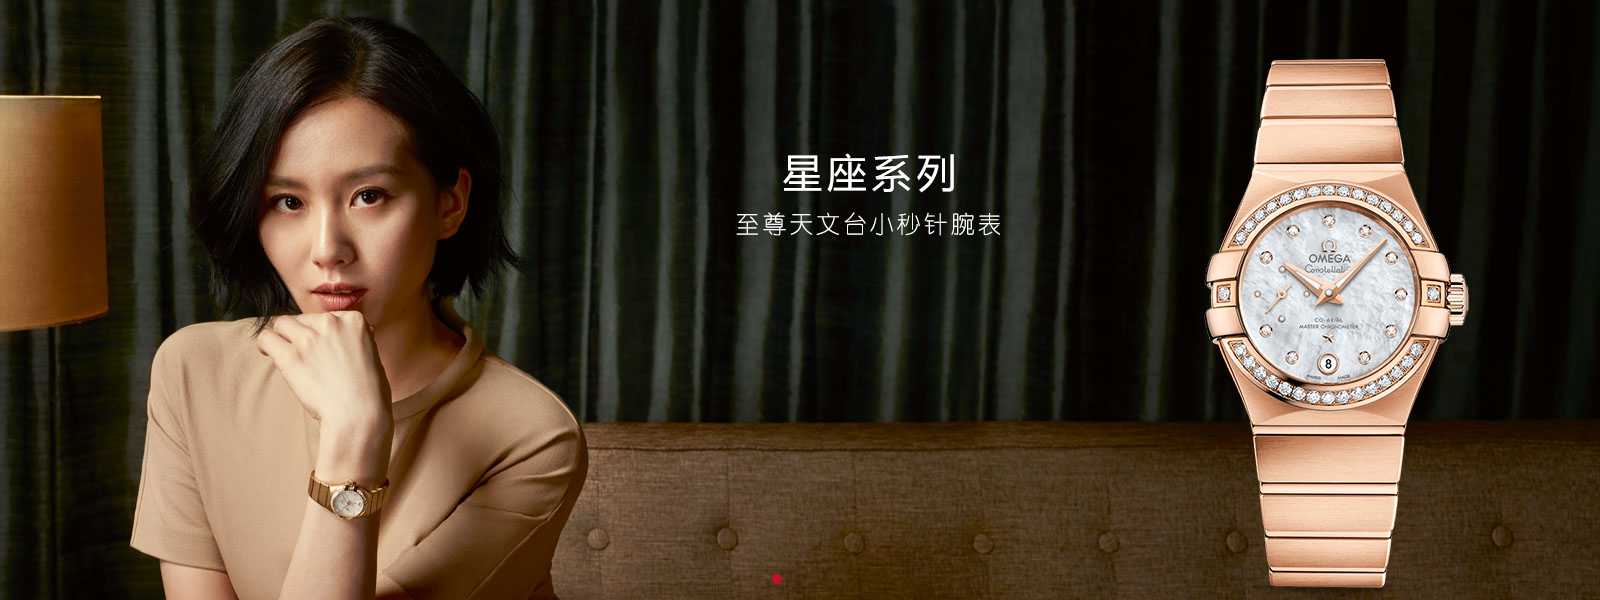
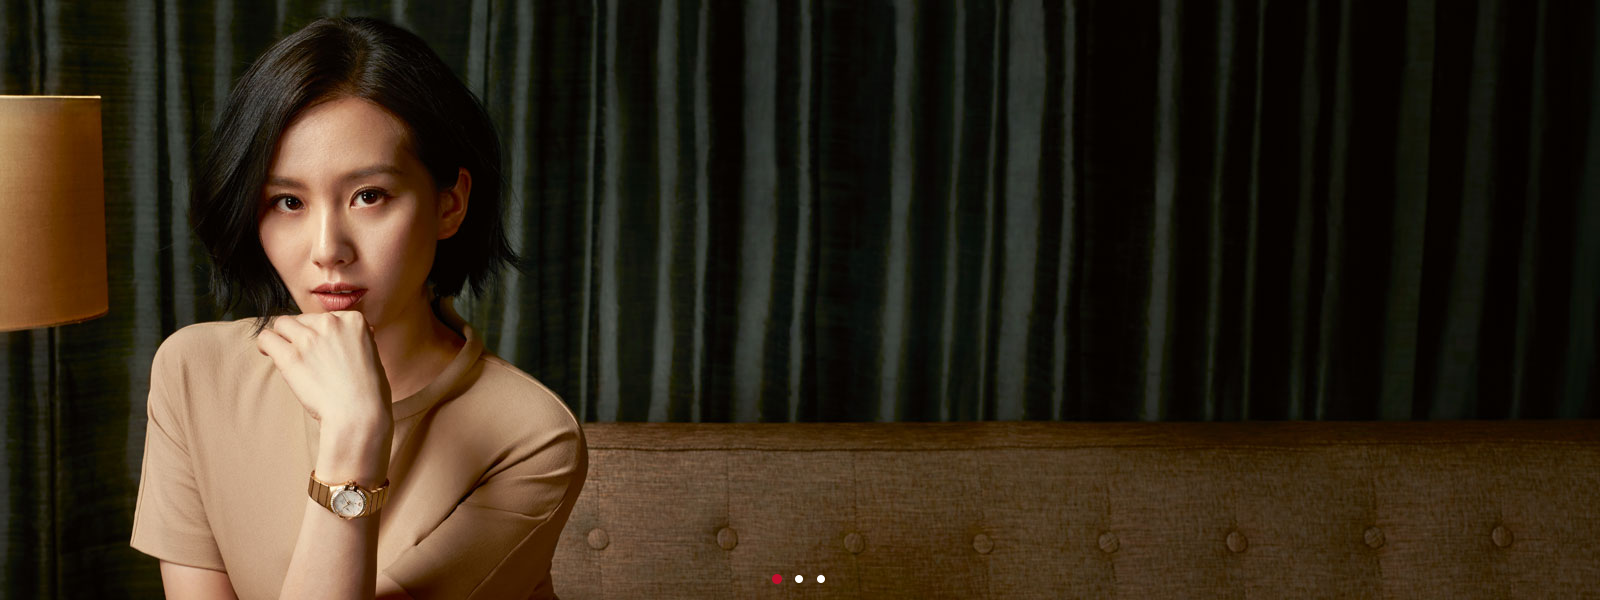
xx

Changed region(s): [[0.75, 0.09, 0.9375, 0.99], [0.4688, 0.24, 0.5938, 0.33], [0.4375, 0.36, 0.625, 0.39]]

diff --git a/index.html b/index.html
@@ -6,7 +6,7 @@
     <title>SW手表</title>
 
 </head>
-<style>
+<style type="text/css">
     .daohanglan {
         background: #ffffff;
         width: 1600px;
@@ -15,97 +15,116 @@
         left: 0px;
     }
 
+    #xingzuo {
+        color: #ff0000;
+        font-size: 32px;
+        font-family: cursive;
+        position: relative;
+        top: 90px;
+        width: 1600px;
+
+        text-align: center;
+        display: inline-block;
+
+
+    }
+
+    #xingzuojieshi {
+        color: #757575;
+        font-size: 14px;
+        font-family: cursive;
+        position: relative;
+        top: 104px;
+        width: 1600px;
+
+        text-align: center;
+        display: inline-block;
+
+
+    }
+
+    #tansuo {
+
+        position: relative;
+        top: 120px;
+        width: 1600px;
+
+        text-align: center;
+        display: inline-block;
+
+
+    }
+
+    /*
+ #tansuo {
+
+   width:144px;
+border:1px solid #212121;
+     color: #212121;
+     font-size: 14px;
+  font-family: cursive;
+        position: relative;
+        top: 90px;
+
+}
+*/
+        #shipin {
+
+
+        position: relative;
+       top: 144px;
+        width: 1600px;
+
+        text-align: center;
+        display: inline-block;
+
+
+    }
+
+
     body {
         margin: 0;
     }
-
 </style>
 
 <body>
     <div class="daohanglan">
         <img src="other/SW.png" style="width: 160px;position: relative;left: 136px;top: 16px" />
 
-        <div style="color: #00ff0a; font-size: 18px;font-family:cursive; position: absolute;left: 784px;top: 27px">首页</div>
+        <div style="color: #ff0000; font-size: 18px;font-family:cursive; position: absolute;left: 784px;top: 27px">首页</div>
         <div style="color: #000000; font-size: 18px;font-family:cursive; position: absolute;left: 984px;top: 27px"> 星座系列</div>
         <div style="color: #000000; font-size: 18px;font-family:cursive; position: absolute;left: 1192px;top: 27px"> 海马系列</div>
         <div style="color: #000000; font-size: 18px;font-family:cursive; position: absolute;left: 1400px;top: 27px"> 关于我们</div>
-
-    </div>
-    <img src="other/%E4%B8%BB%E9%A2%98%E5%9B%BE1.png" style="width: 1600px; margin: 0px " />
-
-
-
-    <!--<div img id="biaozhi" src="other/SW.png" style="width: 160px;" >-->
-
     </div>
 
-</body>
 
-</html>
-
+    <img src="other/%E4%B8%BB%E9%A2%98%E5%9B%BE1.png" style="width: 1600px " />
 
 
-
-
-
-
-
-<!--
-<html>
-
-<head>
-    <meta charset="utf-8" />
-    <title>超级卖场</title>
-</head>
-<style>
-    .sunzi {
-        background: #ed6a6a;
-        width: 100px;
-        height: 100px;
-        display: inline-block;
-    }
-
-    #baba {
-        background: #d4d0d0;
-        width: 400px;
-        height: 400px;
-        text-align: center;
-        display: inline-block;
-
-
-    }
-
-    .yeye {
-        text-align: center;
-        background: #e2e2ea;
-    }
-
-    body {
-        margin: 0;
-    }
-
-    div {
-        border: 4px solid #ff0031;
-    }
-</style>
-
-<body>
-
-    <h1 style="color: aqua">hahahhaha</h1>
-
-    <div style="color: red; font-size: 48px;font-family:cursive">
-        Welcome!</div>
-
-    <img src="imgs/123.jpg" style="width: 300px;" />
-    <input type="button" />
-    <div class="yeye">
-        <div id="baba">
-            <div class="sunzi"></div>
-        </div>
+    <div id="xingzuo">
+        SW星座系列至尊天文台小秒针腕表
     </div>
 
-</body>
 
+    <div id="xingzuojieshi">
+        这是首款专门为女士打造的至尊天文台表，不仅继承了SW星座系列的所有经典元素，小秒针的设计也让这款腕表更加灵动精美。
+    </div>
 
-</html>
+    <div id="tansuo">
+        <img src="other/%E6%8E%A2%E7%B4%A2%E6%AD%A4%E7%B3%BB%E5%88%97.png" style="width: 141px; margin: 0px " />
+    </div>
+
+    <!--
+  <div id="tansuo" style="text-align: center;display:-webkit-box;
+-webkit-box-pack:center;
+-webkit-box-align:center; display: inline-block">
+    <p>探索此系列</p></div>
 -->
+<div id="shipin">
+        <img src="other/%E8%A7%86%E9%A2%91.png" style="width: 1344px" />
+    </div>
+
+</body>
+
+</html>
+
